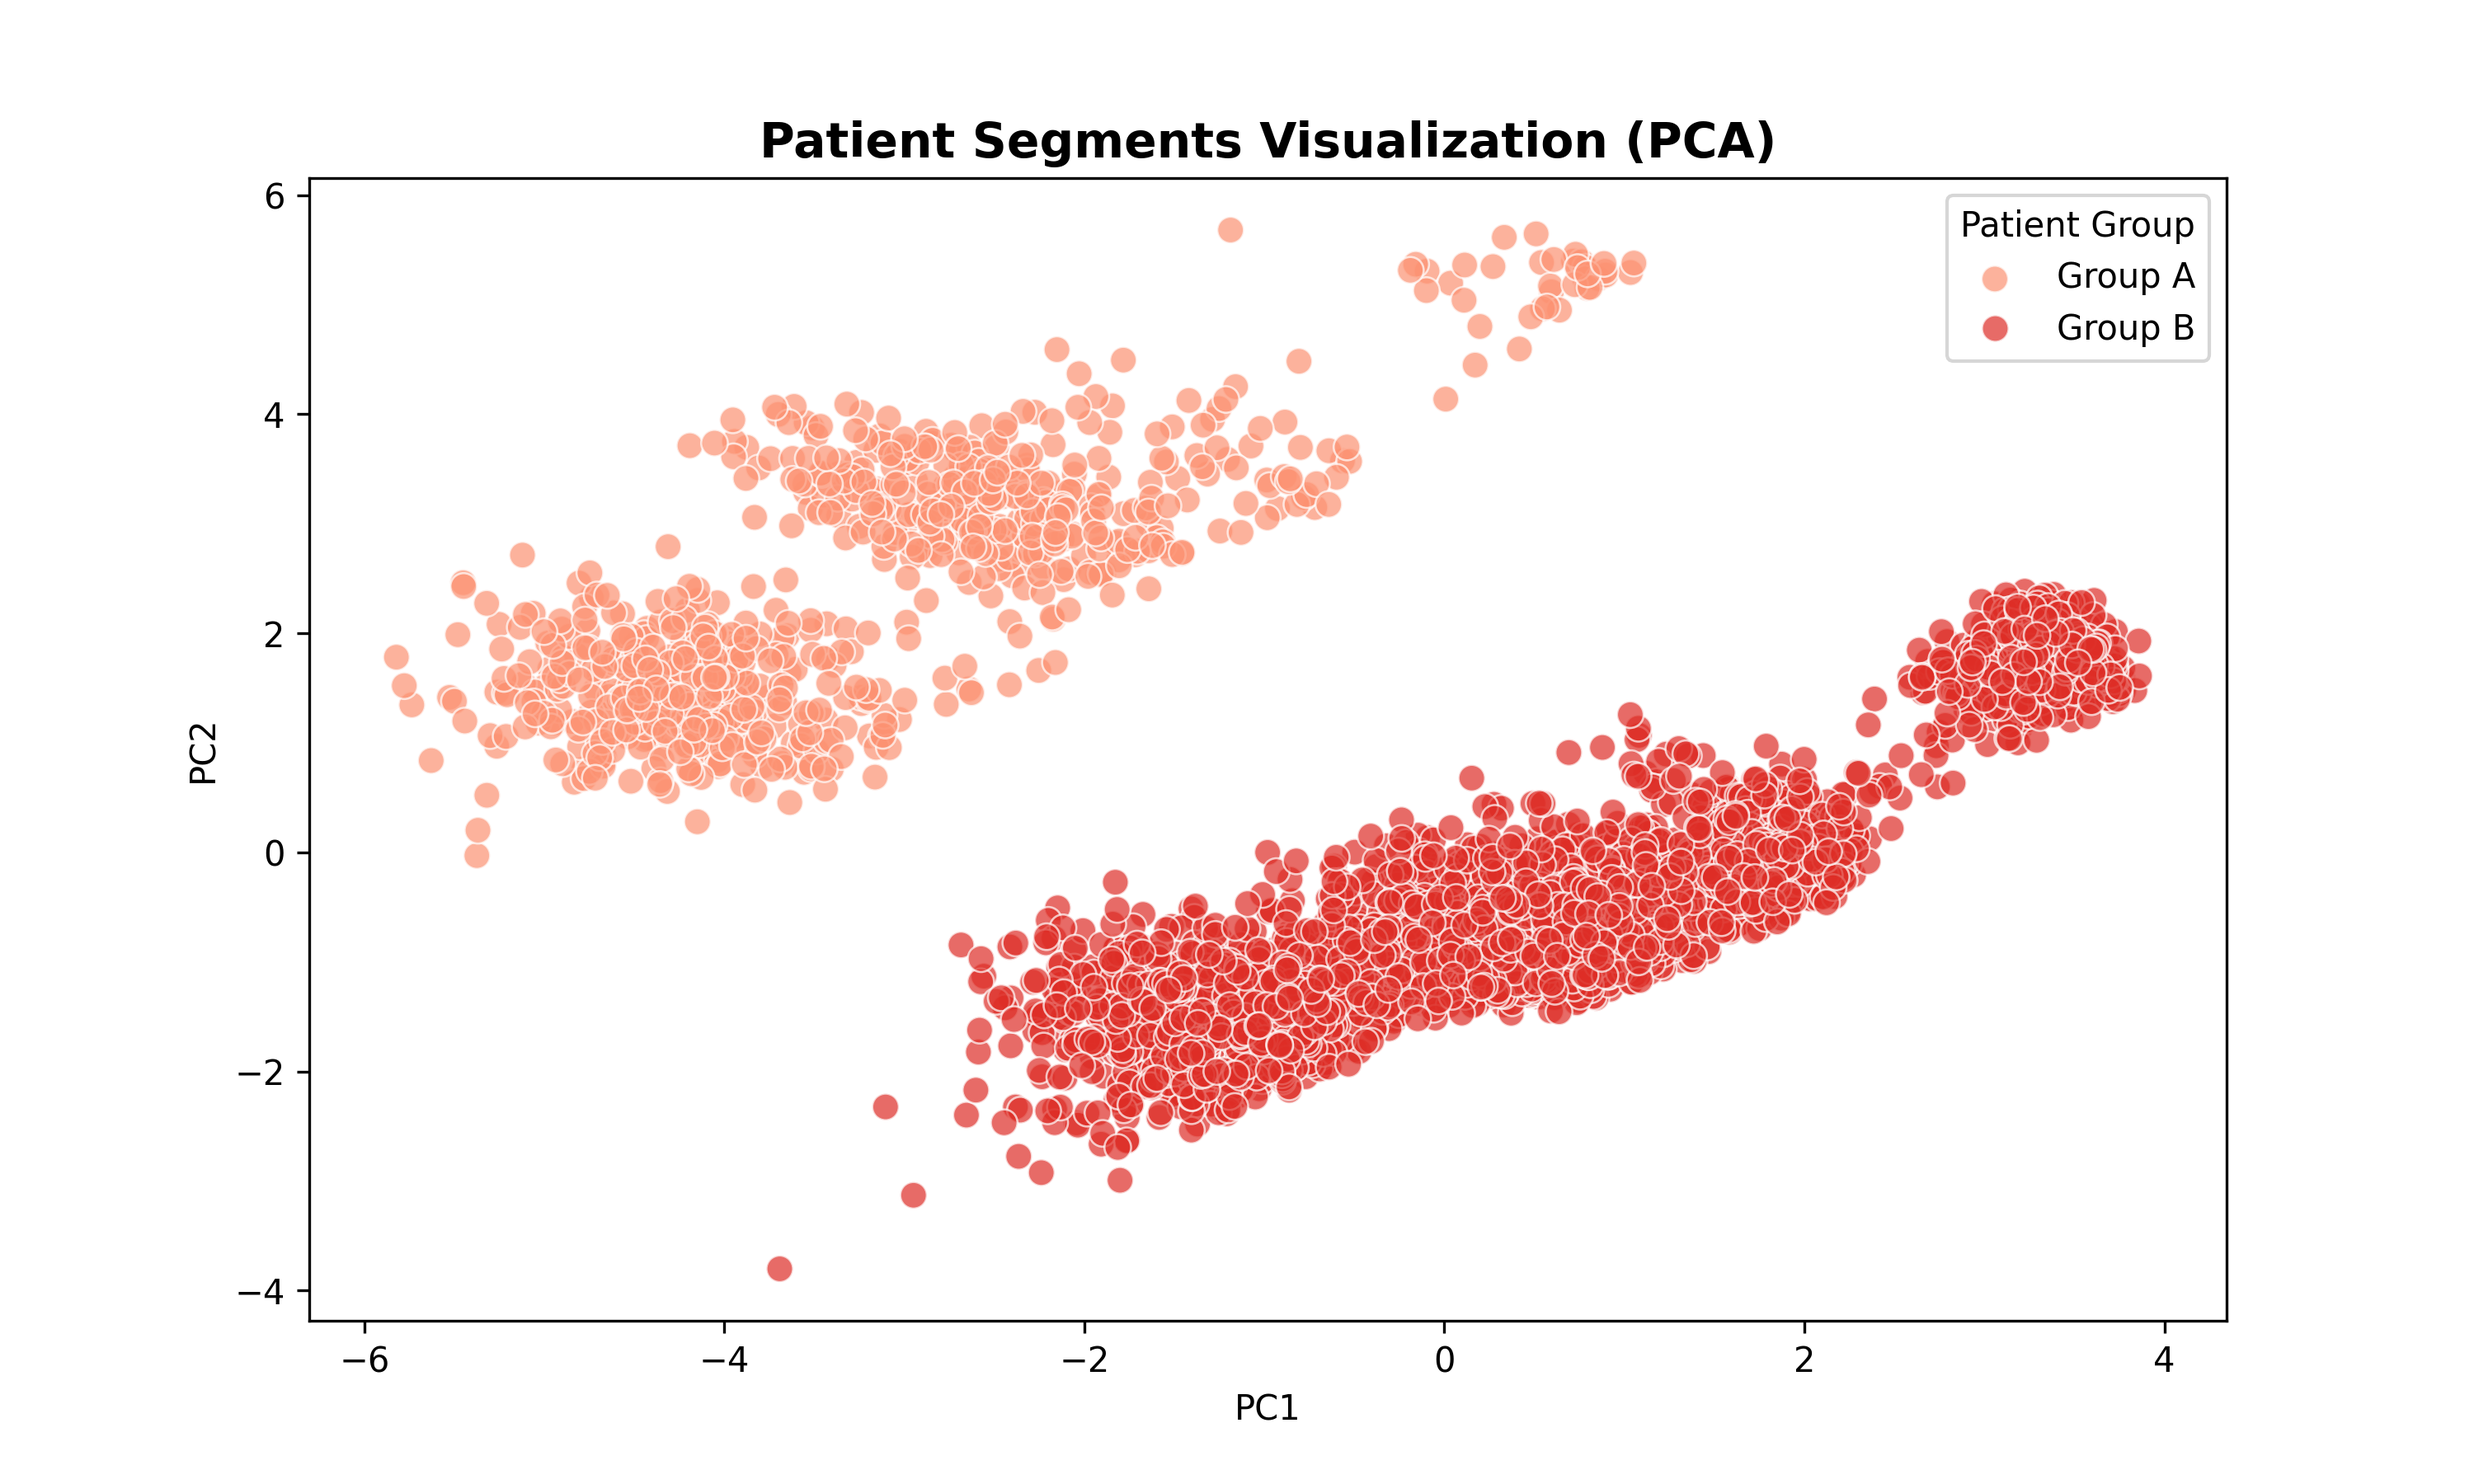
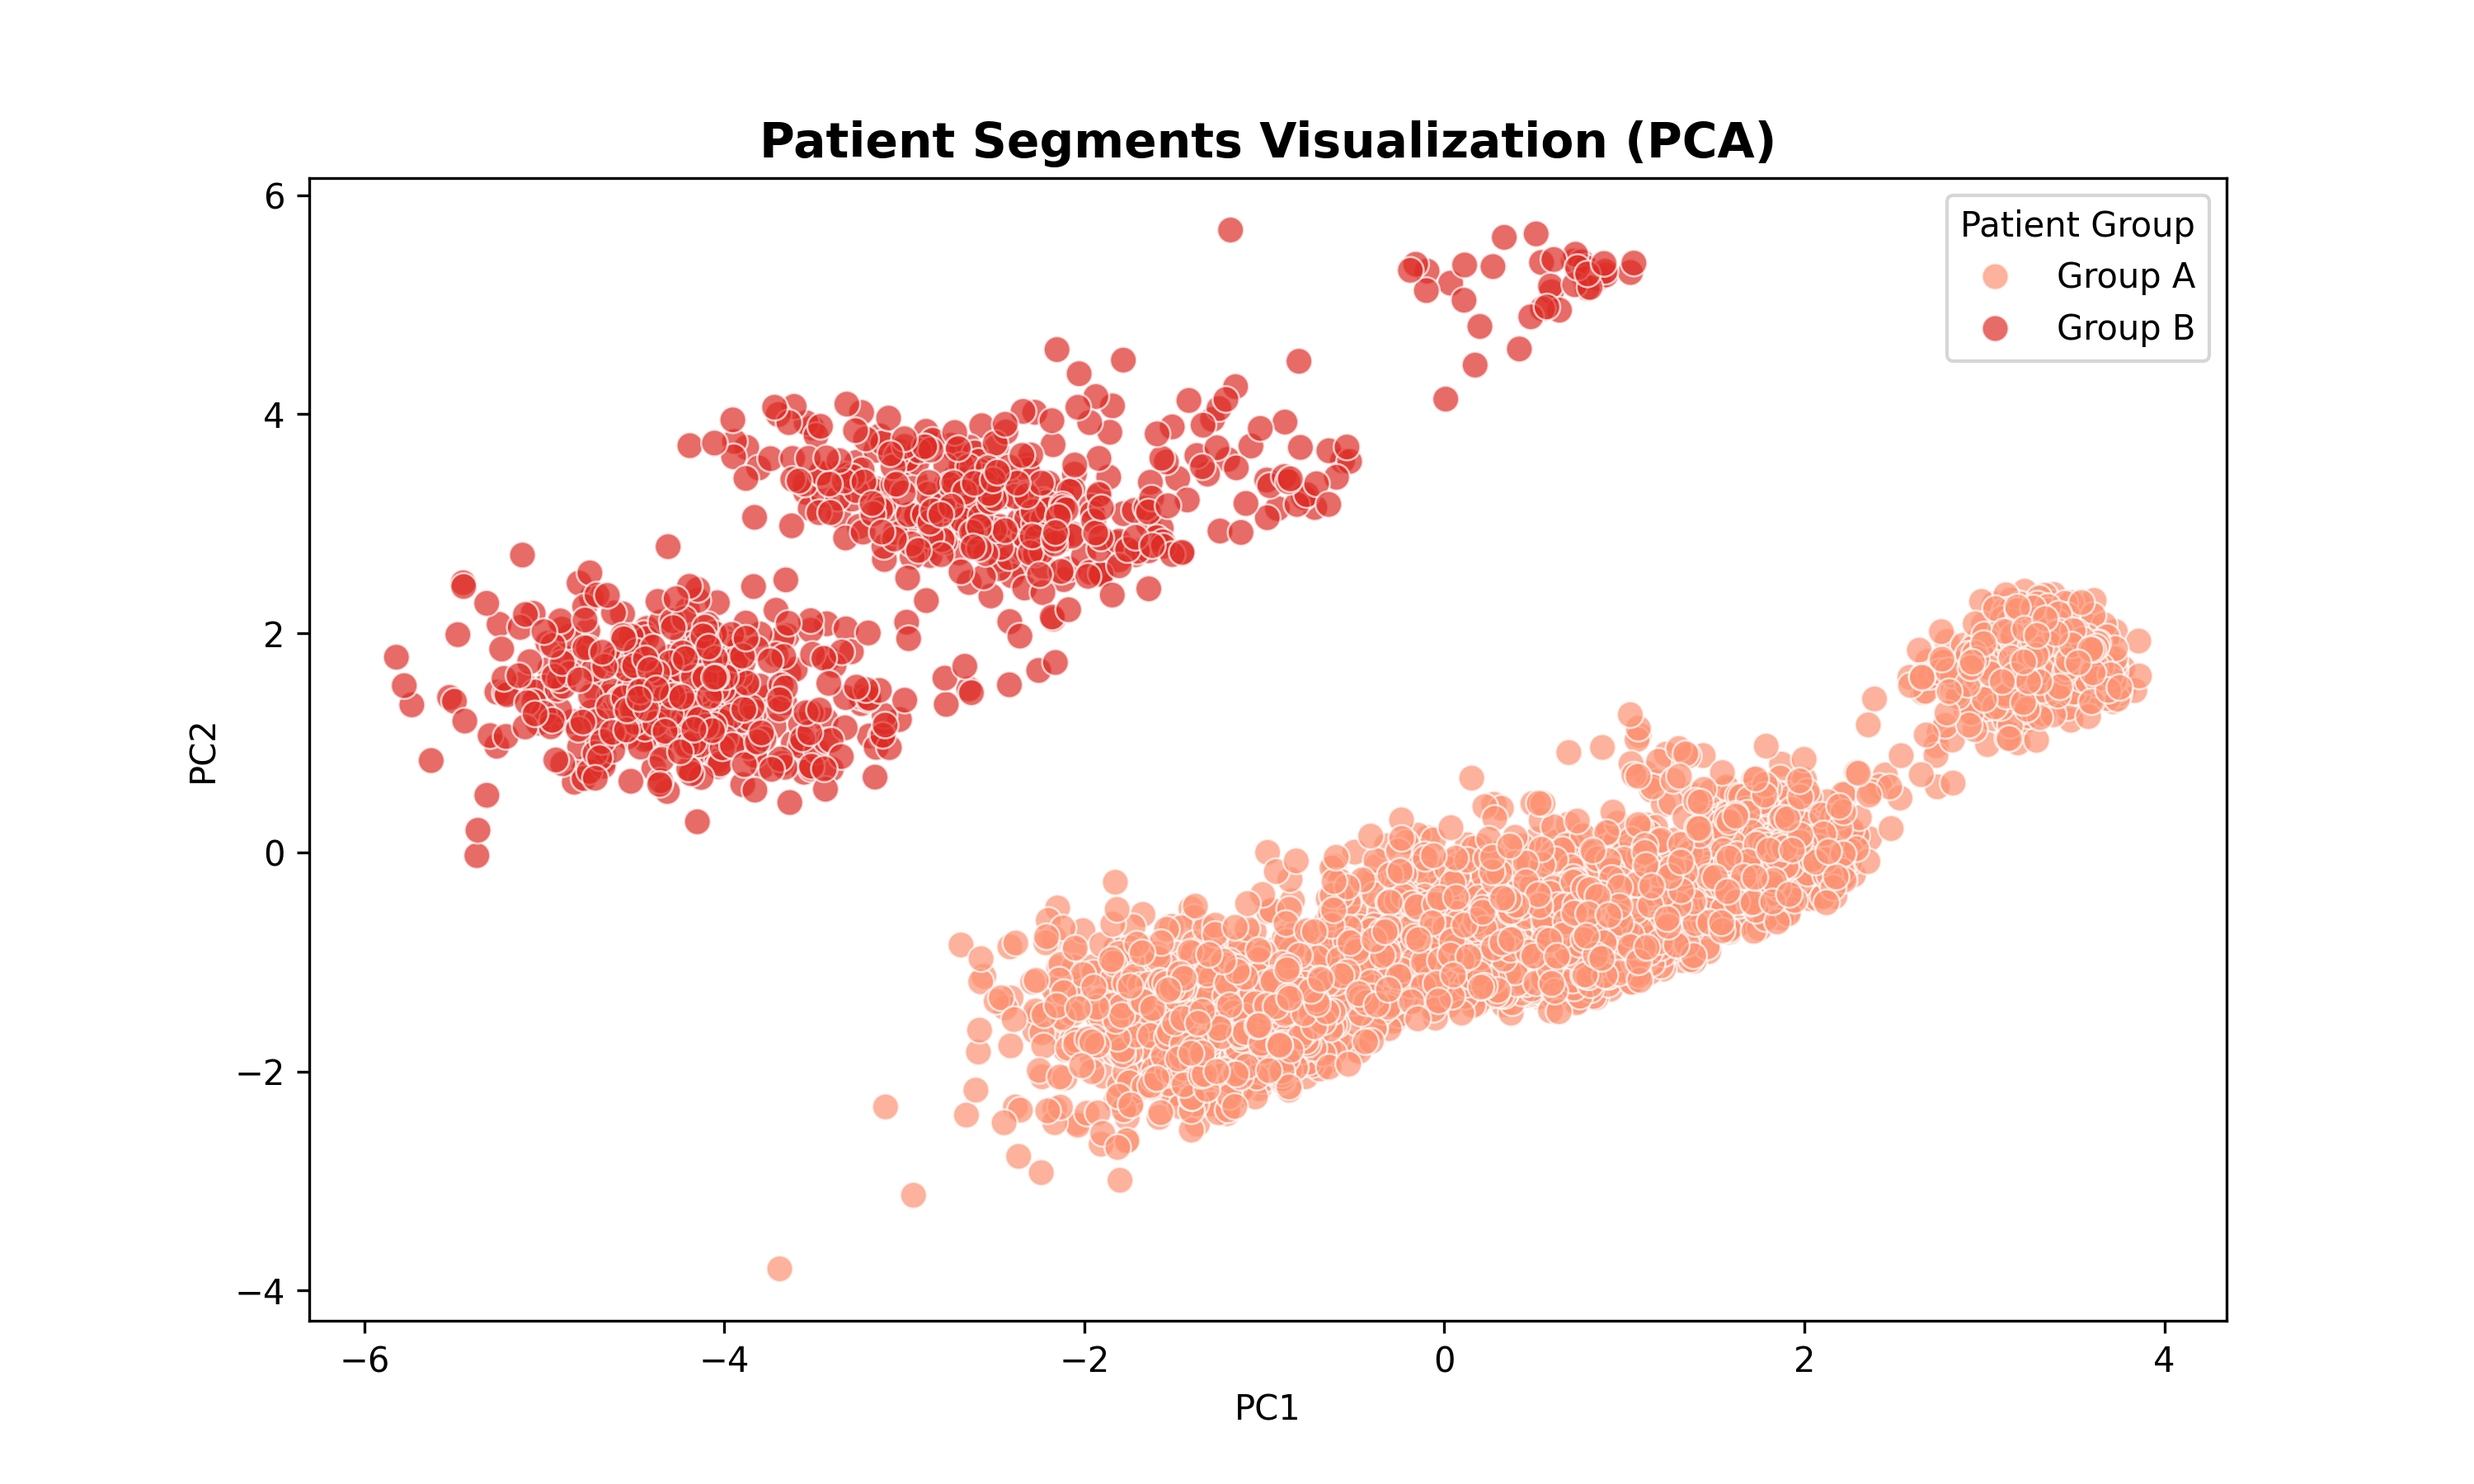
fixed plot_clusters_pca show

diff --git a/src/cluster_analysis.py b/src/cluster_analysis.py
@@ -150,13 +150,10 @@ def plot_clusters_pca(df_clustered: pd.DataFrame):
         pca_df['Patient Group'] = df_clustered['cluster'].map({0: 'Group A', 1: 'Group B'})
         
         # 4. Plot
-        GROUP_COLORS = {0: '#fc9272', 1: '#de2d26'}        
+        GROUP_COLORS = {'Group A': '#fc9272', 'Group B': '#de2d26'}   
+        plt.figure(figsize=(10, 6))
         sns.scatterplot(x='PC1', y='PC2', hue='Patient Group', data=pca_df, 
                 palette=GROUP_COLORS, s=60, alpha=0.7, hue_order=['Group A', 'Group B'])        
-        plt.figure(figsize=(10, 6))
-        sns.scatterplot(x='PC1', y='PC2', 
-                        hue='cluster', data=pca_df, 
-                        palette=GROUP_COLORS, s=60, alpha=0.7)
         
         plt.title('Patient Segments Visualization (PCA)', fontsize=14, fontweight='bold')
         plt.legend(title='Patient Group')
